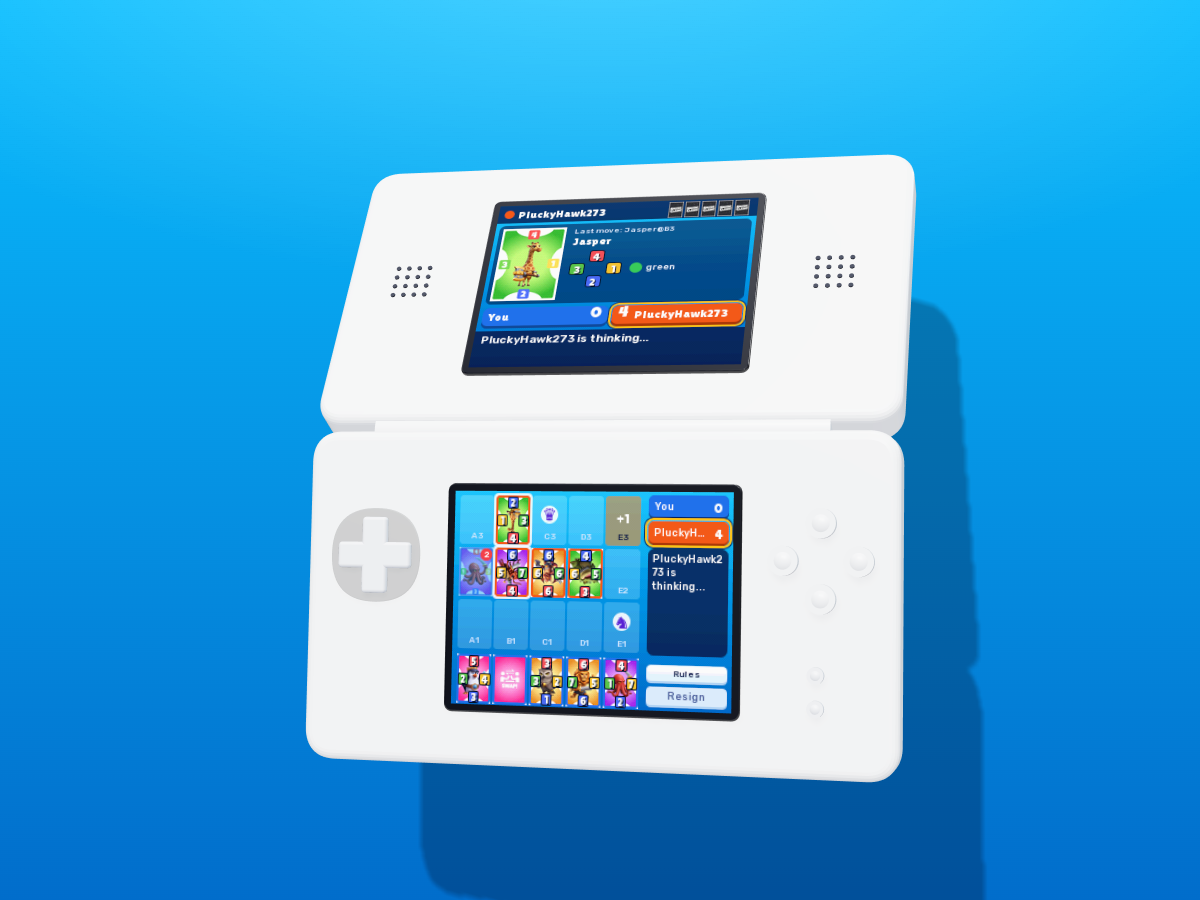
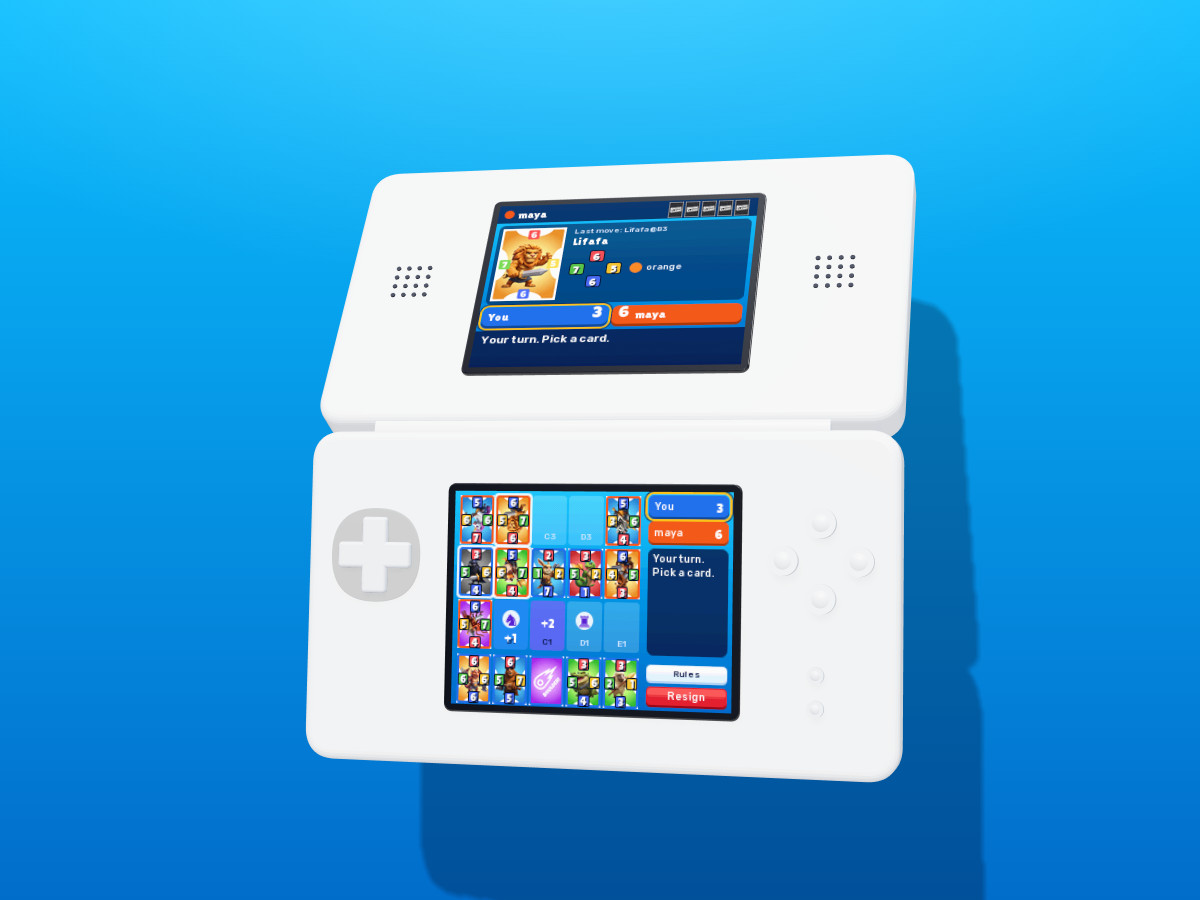
The launch film: Smash&Clash on retro consoles, in the README
A 52-second film for the DS, the GBA and the PSP in 16:9 and 9:16, built on
real gameplay recorded by the headless tests (tests/recorder.py, SNC_RECORD)
on 3D models of the consoles. Both cuts are on the v1.1.0 release.

Changed region(s): [[0.37, 0.5289, 0.6167, 0.8089], [0.4008, 0.2178, 0.6167, 0.4044]]

diff --git a/tests/ds_play.py b/tests/ds_play.py
@@ -19,8 +19,11 @@ import sys
 import time
 
 from libretro import JoypadState, Pointer, Session, TempDirPathDriver, UnformattedLogDriver
+from libretro.drivers.user import DefaultUserDriver
 from libretro.drivers import ArrayAudioDriver, ArrayVideoDriver, DictOptionDriver, IterableInputDriver, StandardContentDriver
 from PIL import Image
+
+from recorder import Recorder, hold
 
 # the DS layout (ds/source/view.c)
 TW, TH, BX, BY, GX, GY, HAND_Y, RX, RW = 32, 44, 5, 4, 2, 3, 147, 180, 72
@@ -44,7 +47,7 @@ def cell_xy(cell, seat):
 
 
 class Driver:
-    def __init__(self, rom, out, options):
+    def __init__(self, rom, out, options, name='Ada'):
         self.out = out
         os.makedirs(out, exist_ok=True)
         self.queue = collections.deque()
@@ -53,10 +56,12 @@ class Driver:
         self.state = {}
         self.lines = []
         self.shots = 0
+        self.rec = Recorder()
         core = os.environ.get('MELONDS_CORE') or os.path.expanduser('~/retro/blobs/melondsds_libretro-linux-x86_64-Release/cores/melondsds_libretro.so')
         self.session = Session(core=core, game=rom, content=StandardContentDriver(), audio=ArrayAudioDriver(),
                                input=IterableInputDriver(self.inputs()), video=ArrayVideoDriver(),
-                               options=DictOptionDriver(variables=options), path=TempDirPathDriver(core, 'libretro'), log=self.log)
+                               options=DictOptionDriver(variables=options), path=TempDirPathDriver(core, 'libretro'), log=self.log,
+                               user=DefaultUserDriver(username=name))
 
     def inputs(self):
         while True:
@@ -72,6 +77,7 @@ class Driver:
     def frames(self, n):
         for _ in range(n):
             self.session.run()
+            self.rec.frame(self.session)
             self.read_log()
 
     def read_log(self):
@@ -100,12 +106,14 @@ class Driver:
         return False
 
     def tap(self, x, y, frames=6):
-        self.queue.extend([touch(x, y)] * frames + [0] * 8)
-        self.frames(frames + 10)
+        h, rest = hold(frames)
+        self.queue.extend([touch(x, y)] * h + [0] * (rest or 8))
+        self.frames(h + (rest or 8) + 2)
 
     def press(self, **buttons):
-        self.queue.extend([JoypadState(**buttons)] * 6 + [0] * 8)
-        self.frames(16)
+        h, rest = hold(6)
+        self.queue.extend([JoypadState(**buttons)] * h + [0] * (rest or 8))
+        self.frames(h + (rest or 8) + 2)
 
     def shot(self, name):
         self.frames(8)  # let the frame drawn last make it to the screen
@@ -194,7 +202,7 @@ def main():
         'melonds_jit_enable': 'disabled',
         'melonds_show_cursor': 'disabled',
     }
-    with Driver(a.rom, a.out, options) as d:
+    with Driver(a.rom, a.out, options, a.name) as d:
         if not d.wait_for(lambda st: st.get('scr') == '0' and st.get('busy') == '0', 120):
             d.shot('boot-failed')
             print('FAIL: never reached the lobby')

diff --git a/tests/recorder.py b/tests/recorder.py
@@ -1,0 +1,49 @@
+"""Records a headless test's game as footage: every emulated frame as a PNG, at the
+console's own pace, with button presses at a person's speed. Used by the launch film.
+
+  SNC_RECORD=DIR python3 tests/ds_play.py ...   (also gba_play.py, psp_play.py)
+  SNC_HUMAN=0 to keep the tests' machine-speed presses; SNC_REALTIME=0 to run flat out.
+"""
+import os
+import time
+
+from PIL import Image
+
+DIR = os.environ.get('SNC_RECORD')
+HUMAN = DIR is not None and os.environ.get('SNC_HUMAN', '1') != '0'
+REALTIME = DIR is not None and os.environ.get('SNC_REALTIME', '1') != '0'
+FPS = 59.73
+
+
+class Recorder:
+    def __init__(self):
+        self.n = 0
+        self.clock = None
+        if DIR:
+            os.makedirs(DIR, exist_ok=True)
+
+    def frame(self, session):
+        if not DIR:
+            return
+        shot = session.video.screenshot()
+        if shot is None:
+            return
+        w, h = (shot.width, shot.height) if hasattr(shot, 'width') else (shot.size)
+        img = Image.frombytes('RGBA', (w, h), bytes(shot.data)).convert('RGB')
+        img.save(os.path.join(DIR, f'{self.n:05d}.png'), compress_level=1)
+        self.n += 1
+        if REALTIME:  # the game's own pace: the network waits are as long as they really are
+            now = time.time()
+            if self.clock is None:
+                self.clock = now
+            self.clock += 1 / FPS
+            lag = self.clock - now
+            if lag > 0:
+                time.sleep(lag)
+            elif lag < -0.5:
+                self.clock = now
+
+
+def hold(frames):
+    """How long a press is held, and how long the hand rests after it, when recording."""
+    return (max(frames, 7), 14) if HUMAN else (frames, None)

diff --git a/tests/gba_play.py b/tests/gba_play.py
@@ -25,6 +25,8 @@ from libretro import JoypadState, Session, TempDirPathDriver, UnformattedLogDriv
 from libretro.drivers import ArrayAudioDriver, ArrayVideoDriver, DictOptionDriver, IterableInputDriver, StandardContentDriver
 from PIL import Image
 
+from recorder import Recorder, hold
+
 EWRAM = 0x02000000
 MAGIC = b'SNC-GBA-BRIDGE1'
 STATE = b'SNC-STATE: '
@@ -128,6 +130,7 @@ class Driver:
         self.queue = collections.deque()
         self.state, self.raw, self.addr, self.shots = {}, '', None, 0
         self._mem = None
+        self.rec = Recorder()
         self.clock = time.time()
         self.relay = Relay(*bridge)
         core = os.environ.get('MGBA_CORE') or os.path.expanduser('~/retro/blobs/mgba_libretro.so')
@@ -173,6 +176,7 @@ class Driver:
     def frames(self, n):
         for _ in range(n):
             self.session.run()
+            self.rec.frame(self.session)
             mem = self.mem()
             self.relay.step(mem)
             # while an SDK call is out, run at the GBA's own speed: its timeouts count frames
@@ -197,8 +201,9 @@ class Driver:
         return False
 
     def press(self, **buttons):
-        self.queue.extend([JoypadState(**buttons)] * 3 + [0] * 4)
-        self.frames(8)
+        h, rest = hold(3)
+        self.queue.extend([JoypadState(**buttons)] * h + [0] * (rest or 4))
+        self.frames(h + (rest or 4) + 1)
 
     def hits(self):
         out = []

diff --git a/README.md b/README.md
@@ -6,9 +6,11 @@
 
 Real games against real people and the house opponent, on smashandclash.in's servers. Same rules, same cards, same Game Review as [smashandclash.in](https://www.smashandclash.in).
 
-![Smash&Clash on the DS (in Delta) and the GBA](media/hero.png)
+[![Smash&Clash, now on retro consoles: watch the launch film](media/preview.gif)](https://github.com/smashandclash/delta/releases/download/v1.1.0/smashandclash-retro-consoles.mp4)
 
-**[⬇ Download the DS game, the GBA game and the Delta skins (v1.0.0)](https://github.com/smashandclash/delta/releases/latest)**
+**[▶ Watch the 52-second launch film (1080p MP4)](https://github.com/smashandclash/delta/releases/download/v1.1.0/smashandclash-retro-consoles.mp4)** · [Portrait cut (9:16)](https://github.com/smashandclash/delta/releases/download/v1.1.0/smashandclash-retro-consoles-portrait.mp4)
+
+**[⬇ Download the DS game, the GBA game and the Delta skins (v1.1.0)](https://github.com/smashandclash/delta/releases/latest)**
 
 **Build your own client today: [docs.smashandclash.in](https://docs.smashandclash.in)**
 
@@ -33,6 +35,7 @@ Looking for the PSP? It has its own repo, with a GPU-drawn 3D board: **[smashand
 - [Build it yourself](#build-it-yourself)
 - [Tests: real games, headless](#tests-real-games-headless)
 - [Build your own client](#build-your-own-client)
+- [The launch film](#the-launch-film)
 - [Troubleshooting](#troubleshooting)
 - [Links](#links)
 
@@ -74,6 +77,8 @@ The GBA has no network, so the GBA game reaches the game through the **SDK bridg
 The game's boot screen ticks off both steps and goes to the lobby as soon as the SDK is on the line. Your record (rating, rules, the game in progress) is kept in the cartridge's battery save. Delta cannot run the bridge (it has no scripting), so in Delta, play the DS game.
 
 ## Screenshots
+
+![Smash&Clash on the DS (in Delta) and the GBA](media/hero.png)
 
 | | |
 | :---: | :---: |
@@ -206,6 +211,12 @@ python3 tests/gba_play.py gba/smashandclash.gba build/gba-test
 ## Build your own client
 
 A DS cartridge is one surface. The same calls work for a Discord bot, a terminal, a game engine, a smartwatch or something nobody has thought of yet. **[docs/build-your-own-client.md](docs/build-your-own-client.md)** is the checklist: the state you get, move names, drawing the board from either seat, effects, hops and overruns, waiting, errors and rate limits, and fair play. Start at **[docs.smashandclash.in](https://docs.smashandclash.in)**.
+
+## The launch film
+
+One film for all three consoles, in a 16:9 and a 9:16 cut: [landscape](https://github.com/smashandclash/delta/releases/download/v1.1.0/smashandclash-retro-consoles.mp4) · [portrait](https://github.com/smashandclash/delta/releases/download/v1.1.0/smashandclash-retro-consoles-portrait.mp4).
+
+Everything on the consoles' screens is real gameplay. The frames come from the same headless emulator runs as [the tests](#tests-real-games-headless) (melonDS, mGBA through the SDK bridge, PPSSPP), recording live online games at a human pace (set `SNC_RECORD=DIR` on any test to record one yourself, see `tests/recorder.py`), and are put on 3D models of a DS, a GBA SP, a PSP and a phone running Delta. The score is the consoles' own soundtracks and effects from [The sound](#the-sound), cut on the bar. The film was made with [HyperFrames](https://github.com/heygen-com/hyperframes).
 
 ## Troubleshooting
 
